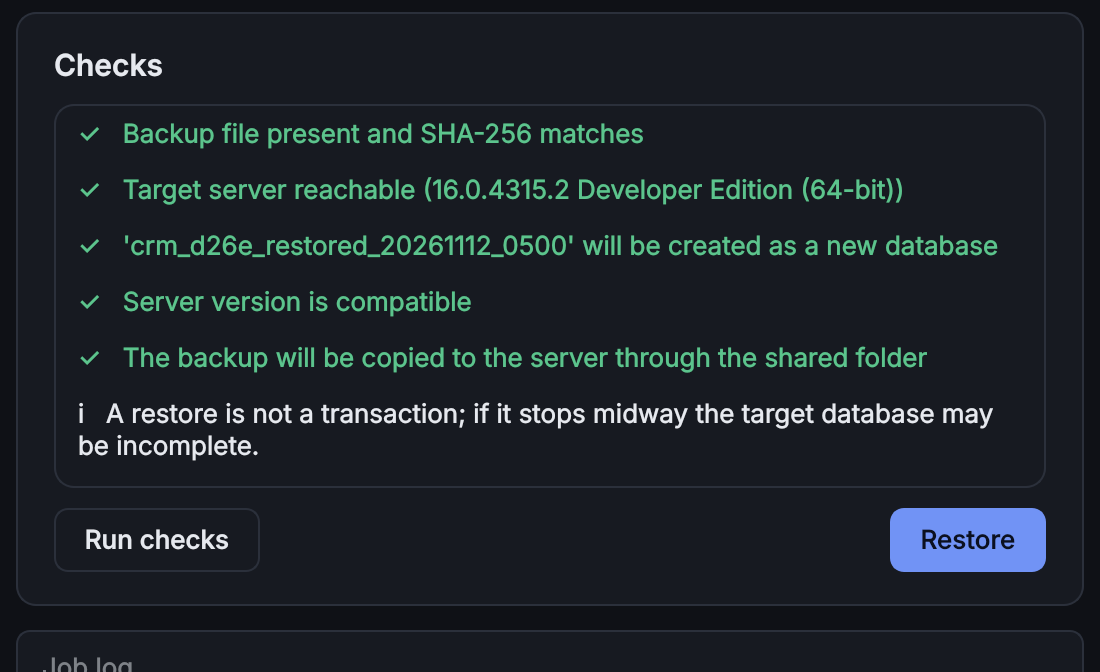
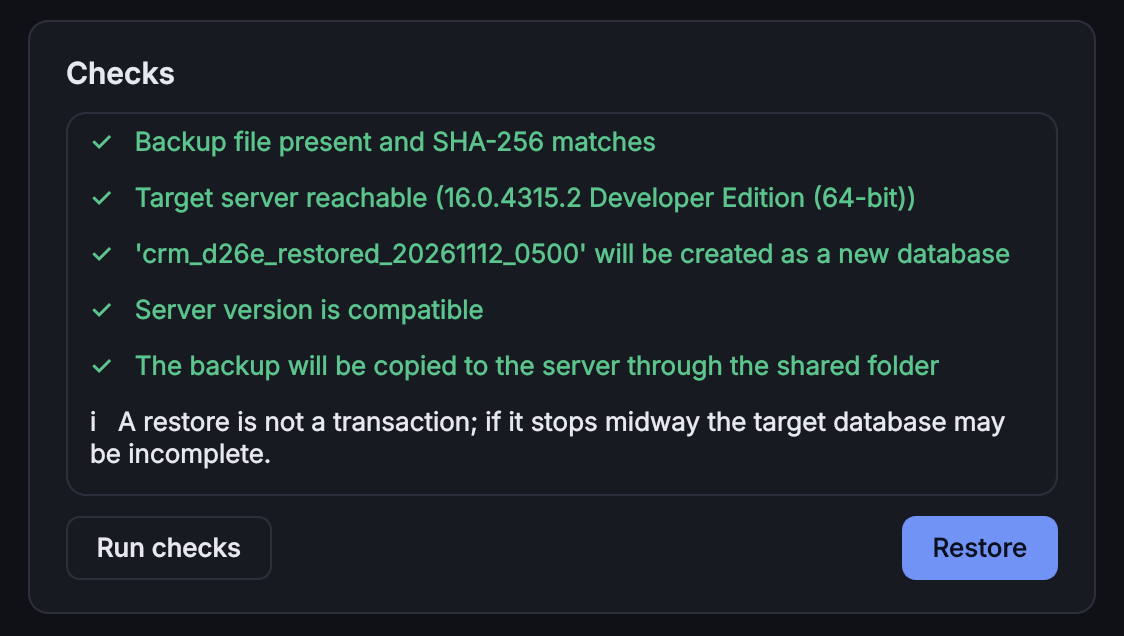
Crop the restore screenshot to the whole checks card on phones
Claude-Session: https://claude.ai/code/session_01NtzbnoTNDEjMd2CPaKx46g

diff --git a/site/index.html b/site/index.html
@@ -278,8 +278,8 @@ footer .wrap { display: flex; flex-wrap: wrap; gap: 12px 24px; justify-content: 
       </div>
       <a class="frame" href="screenshots/restore-light.png" aria-label="Open the screenshot">
         <picture>
-          <source srcset="screenshots/restore-dark-mobile.png" media="(max-width: 640px) and (prefers-color-scheme: dark)" width="1100" height="672">
-          <source srcset="screenshots/restore-light-mobile.png" media="(max-width: 640px)" width="1100" height="672">
+          <source srcset="screenshots/restore-dark-mobile.png" media="(max-width: 640px) and (prefers-color-scheme: dark)" width="1124" height="636">
+          <source srcset="screenshots/restore-light-mobile.png" media="(max-width: 640px)" width="1124" height="636">
           <source srcset="screenshots/restore-dark.png" media="(prefers-color-scheme: dark)" width="2720" height="1720">
           <img src="screenshots/restore-light.png" alt="The Restore page with its checks." loading="lazy" width="2720" height="1720">
         </picture>
